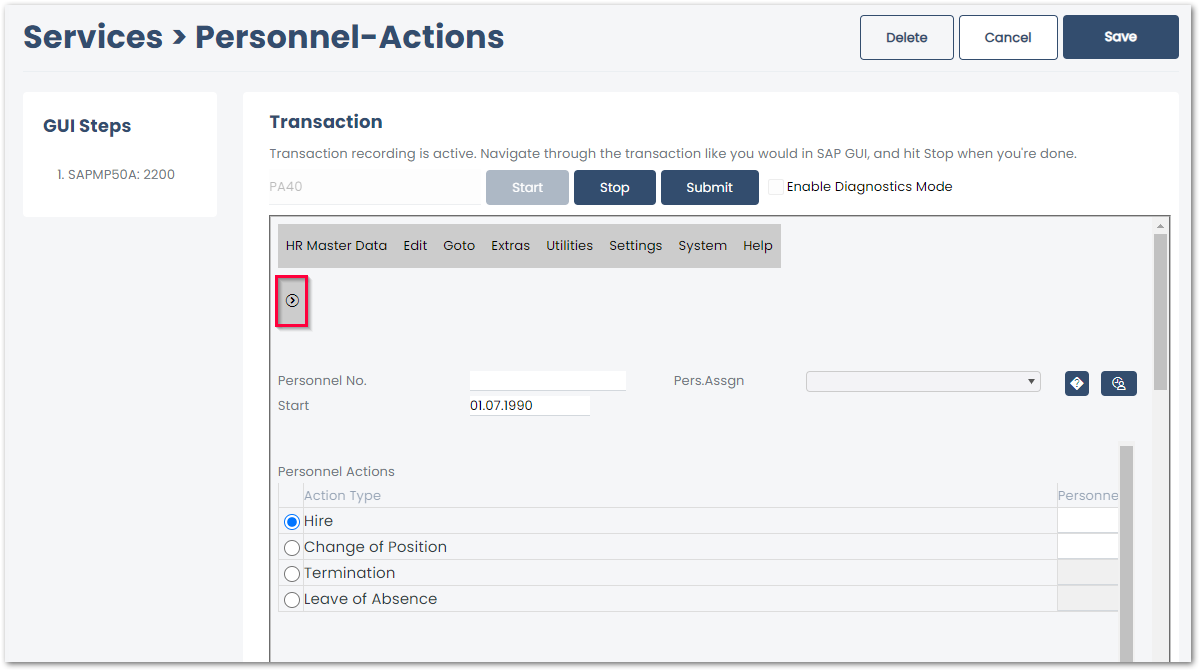
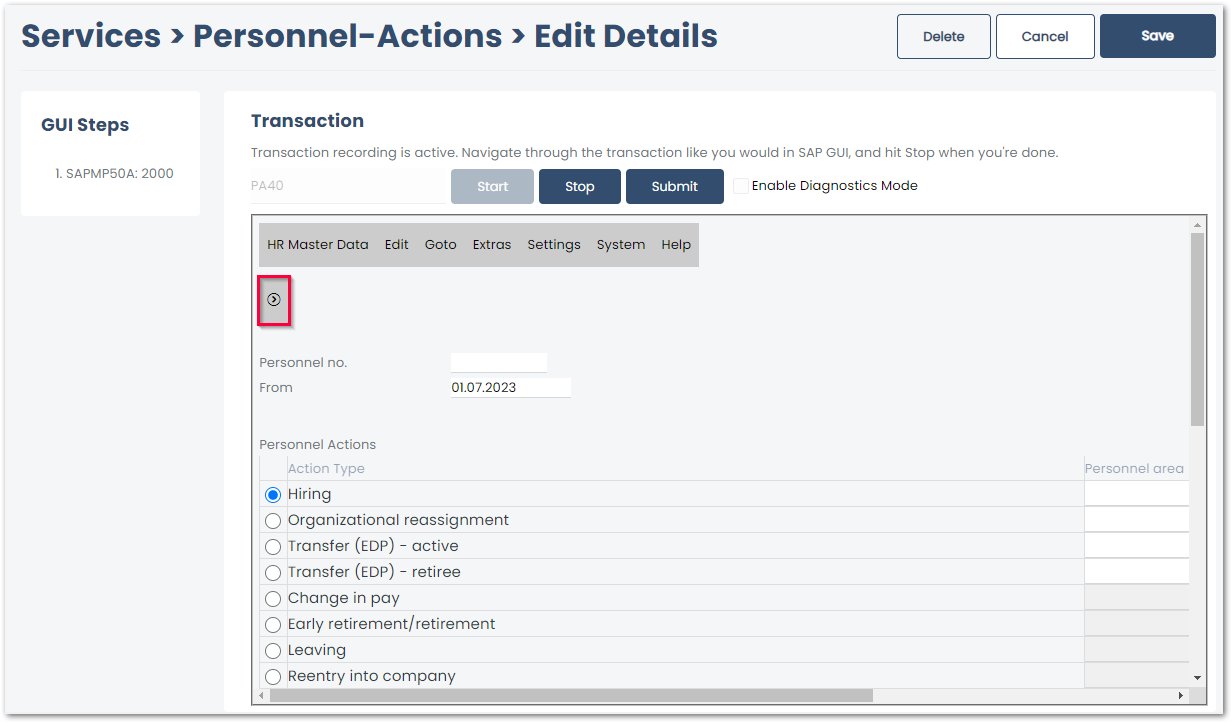
screenshot updates

diff --git a/content/_yunio/transaction-pa40.md b/content/_yunio/transaction-pa40.md
@@ -21,28 +21,27 @@ Therefore knowing how to navigate the SAP GUI makes it easier to use the transac
 
 The following example application uses a yunIO service to create a new employee in SAP.
 
+{: .box-note }
+**Note:** The parameters that are needed to create new employees are dependent on your customized SAP settings.
+
 1. Create a new Service with the integration type *Transaction*. For more information on creating a service, see [Creating a Service](https://help.theobald-software.com/en/yunio/getting-started#creating-a-service).
 2. In the transaction service enter the transaction PA40 and press **[Start]**. A replicated SAP GUI of the transaction PA40 is displayed.
 ![personnel-actions](/img/contents/yunio/personnel-actions.png){:class="img-responsive"}
 3. Enter a start date for the new employee in the format `DD.mm.YYYY`. This input can be replaced with a runtime parameter after the transaction is recorded.
-4. Select the action type **Hire**.
+4. Select the action type **Hiring**.
 5. Click **Execute** to execute the action and continue to the next screen. All actions are logged in the *GUI Steps* section of the UI. <br>
 ![personnel-actions1](/img/contents/yunio/personnel-actions1.png){:class="img-responsive"}
-6. If a pop-op window opens in SAP, the message of the pop-up window is displayed in yunIO. 
-Click **[Submit]** to close any pop-up windows and continue to the next screen.
-7. Fill in the data of the new employee.
-8. Click **[Submit]** to check if the input is valid.
-9. Click **[HR master data] > [Save]** to save the employee data in SAP.<br>
+6. Fill in the data of the new employee.
+7. Click **[Submit]** to check if the input is valid.
+8. Click **[Save]** to save the employee data in SAP and to continue to the next screen.<br>
 ![personnel-actions2](/img/contents/yunio/personnel-actions2.png){:class="img-responsive"}
-10. Click **[HR master data] > [Save]** to create the new employee in SAP.<br>
-![personnel-actions3](/img/contents/yunio/personnel-actions3.png){:class="img-responsive"}
-11. Click **[Continue]**.<br>
-![personnel-actions4](/img/contents/yunio/personnel-actions4.png){:class="img-responsive"}
-12. Enter the address of the new employee.<br>
-![personnel-actions5](/img/contents/yunio/personnel-actions5.png){:class="img-responsive"}
-13. Click **[Save]** to save your actions. <br>
+9. Optional: If a pop-op window opens in SAP, the message of the pop-up window is displayed in yunIO. 
+Click **[Continue]** to close any pop-up windows and continue to the next screen.
+10. Once all necessary data is entered, click **[Infotype] > [Exit]** to stop the input. Example:<br>
+![personnel-actions](/img/contents/yunio/pa40.gif){:class="img-responsive" style="border:1px solid black;"}
+11. Click **[Save]** to save your actions. <br>
 Alternatively, click **[Stop]** to start parameterizing, see [yunIO Help: Parameterize Transactions](https://help.theobald-software.com/en/yunio/transactions#parameterize-transactions).
-14. Copy the URL of the service definition ( ![copy-URL](/img/contents/yunio/copyURL.png) icon) or download the service definition ( ![download-file](/img/contents/yunio/download.png) icon) to integrate the service in your workflow.<br>
+12. Copy the URL of the service definition ( ![copy-URL](/img/contents/yunio/copyURL.png) icon) or download the service definition ( ![download-file](/img/contents/yunio/download.png) icon) to integrate the service in your workflow.<br>
 For information on how to use yunIO services in Power Automate or Nintex, see [Integrating a yunIO Service with Power Automate](integrating-a-yunio-service-with-power-automate) or [Integrating a yunIO Service with Nintex](https://kb.theobald-software.com/yunio/integrating-a-yunio-service-with-nintex).
 ![yunio-Services](/img/contents/yunio/yunio-run-services.png){:class="img-responsive"}
 
@@ -55,7 +54,7 @@ EE subgroup DN -> monthly wage earner
 -->
 
 {: .box-note }
-**Note:** When using *Transaction*, warnings and error messages from SAP are displayed in yunIO e.g., *"Table PA0002 contains an entry for personnel"*.
+**Note:** When using *Transaction*, warnings and error messages from SAP are displayed in yunIO.
 These messages are not yunIO specific and should be treated accordingly.
 
 ******
